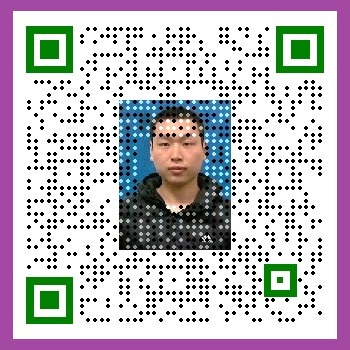
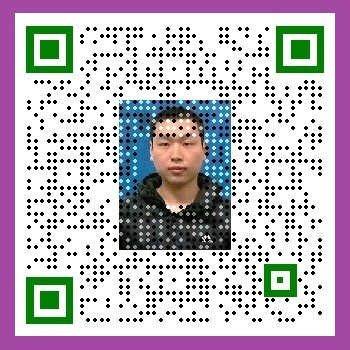
second

Changed region(s): [[0.0286, 0.0286, 0.9714, 0.9714]]

diff --git a/main.html b/main.html
@@ -63,7 +63,7 @@ function hnceTimer(){
 	  </div>
   <div style="width:100%;height:7px;BACKGROUND-IMAGE: url(./files/split5.png)"></div>
   <div style="width: 100%; min-height: 25px; line-height: 25px; font-size: 14px; color: #333; text-align: center;" ne="0.6981776991139286">
-	  <img src="./files/spz1.jpg" style="width:350px;border:0px;" ne="0.6324522137302109">
+	  <img src="./files/spz1_1.jpg" style="width:350px;border:0px;" ne="0.6324522137302109">
   </div>
   <div style="width:100%;height:7px;BACKGROUND-IMAGE: url(./files/split5.png)"></div>
   
